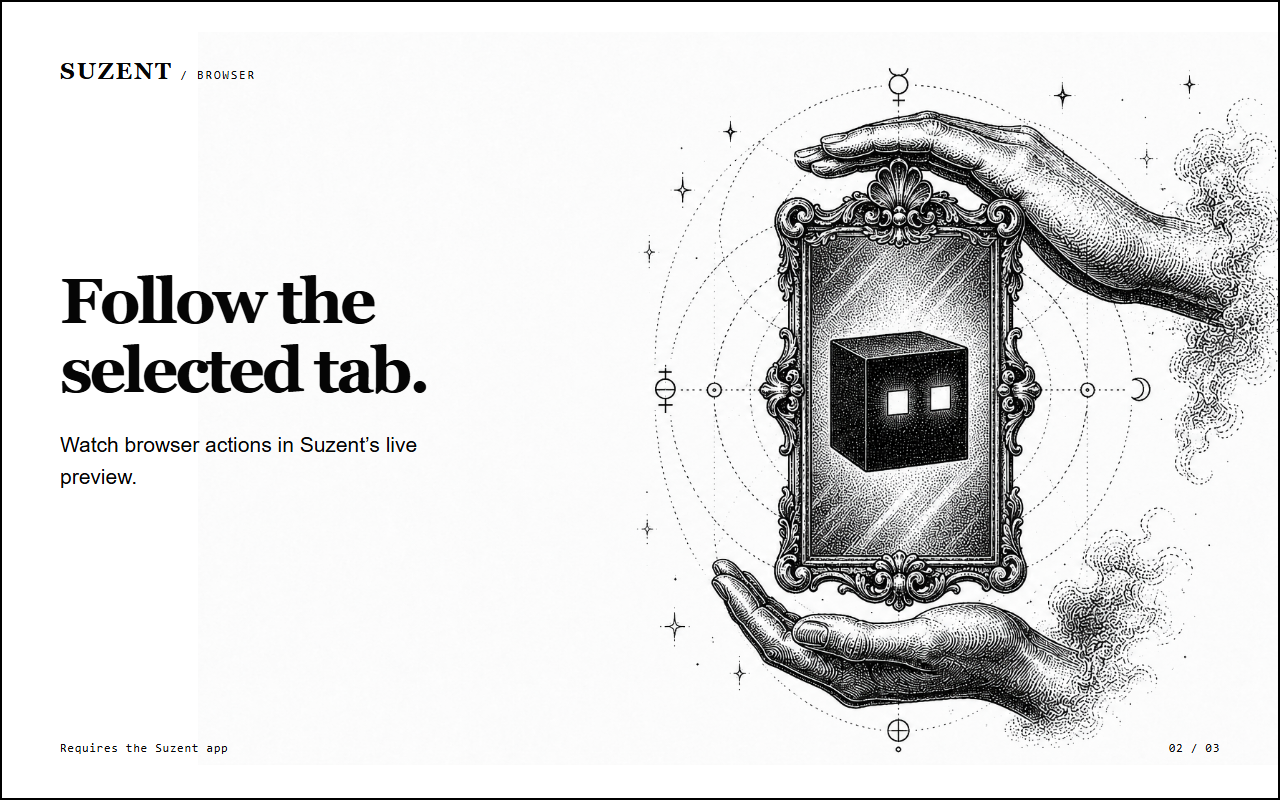
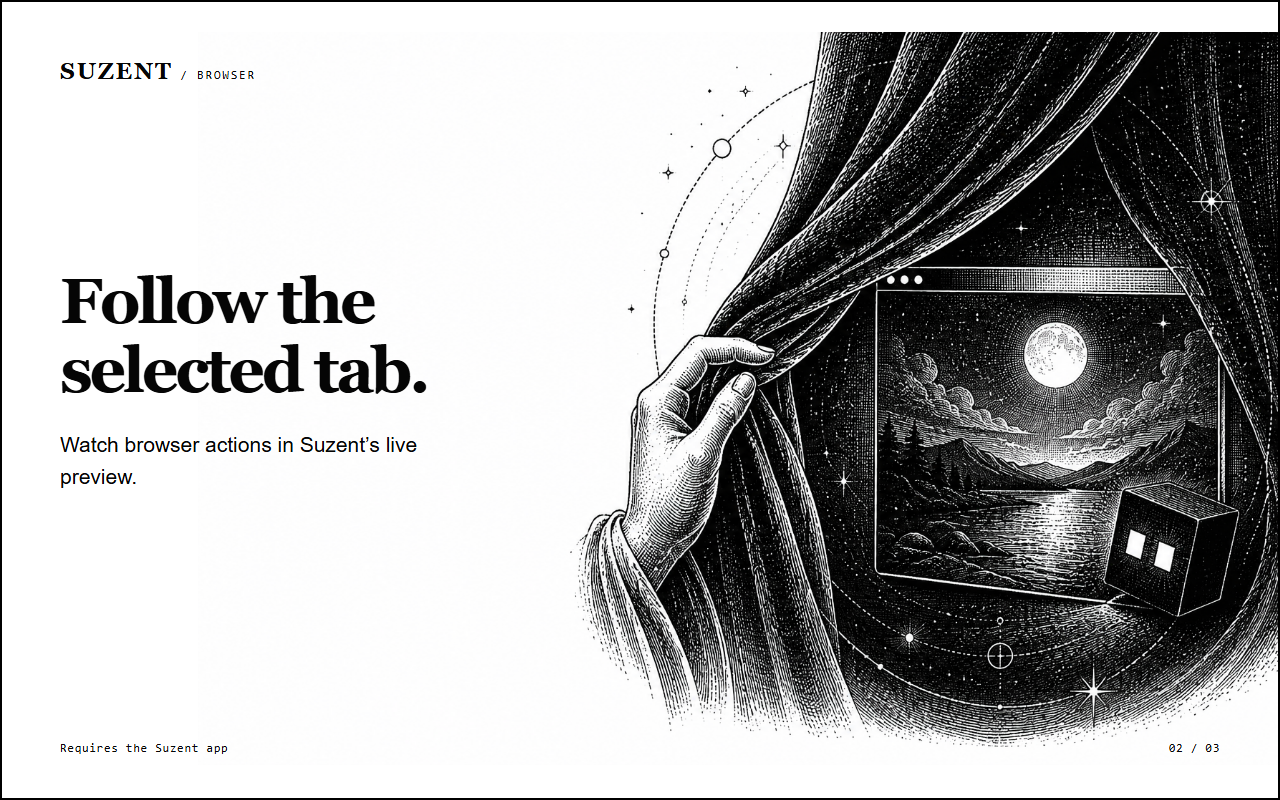
docs(browser): replace mirror with curtain reveal artwork

diff --git a/scripts/build_browser_feature_assets.py b/scripts/build_browser_feature_assets.py
@@ -22,7 +22,7 @@ FEATURES = [
     ),
     (
         "04-live-preview",
-        "gesture-frame.png",
+        "gesture-reveal.png",
         {
             "en": (
                 "Follow the\nselected tab.",

diff --git a/assets/browser-store/README.md b/assets/browser-store/README.md
@@ -21,7 +21,7 @@ Prepared 2026-09-05. Artwork follows `docs/assets/banner_v2.png`: monochrome eng
 Three additional feature illustrations are available in both `en/` and `zh-CN/`, each at 1280 × 800:
 
 - `03-your-tabs.png`: pointing hand and tilted, hovering familiar — existing tabs and signed-in sessions.
-- `04-live-preview.png`: framing hands and a dimensional familiar reflected in the mirror — preview of the selected tab.
+- `04-live-preview.png`: a hand drawing back a curtain to reveal a browser window — preview of the selected tab.
 - `05-your-control.png`: upright stop gesture and tumbling familiar — disconnect while leaving tabs open.
 
 These are conceptual feature cards, not product screenshots. Use alongside the actual UI captures rather than replacing them. Their text-free source illustrations are in `artwork/gesture-*.png`. Rebuild the six cards with `uv run --no-sync python scripts/build_browser_feature_assets.py`; no frontend server is needed. The cube's viewpoint and orientation intentionally vary across the series.
